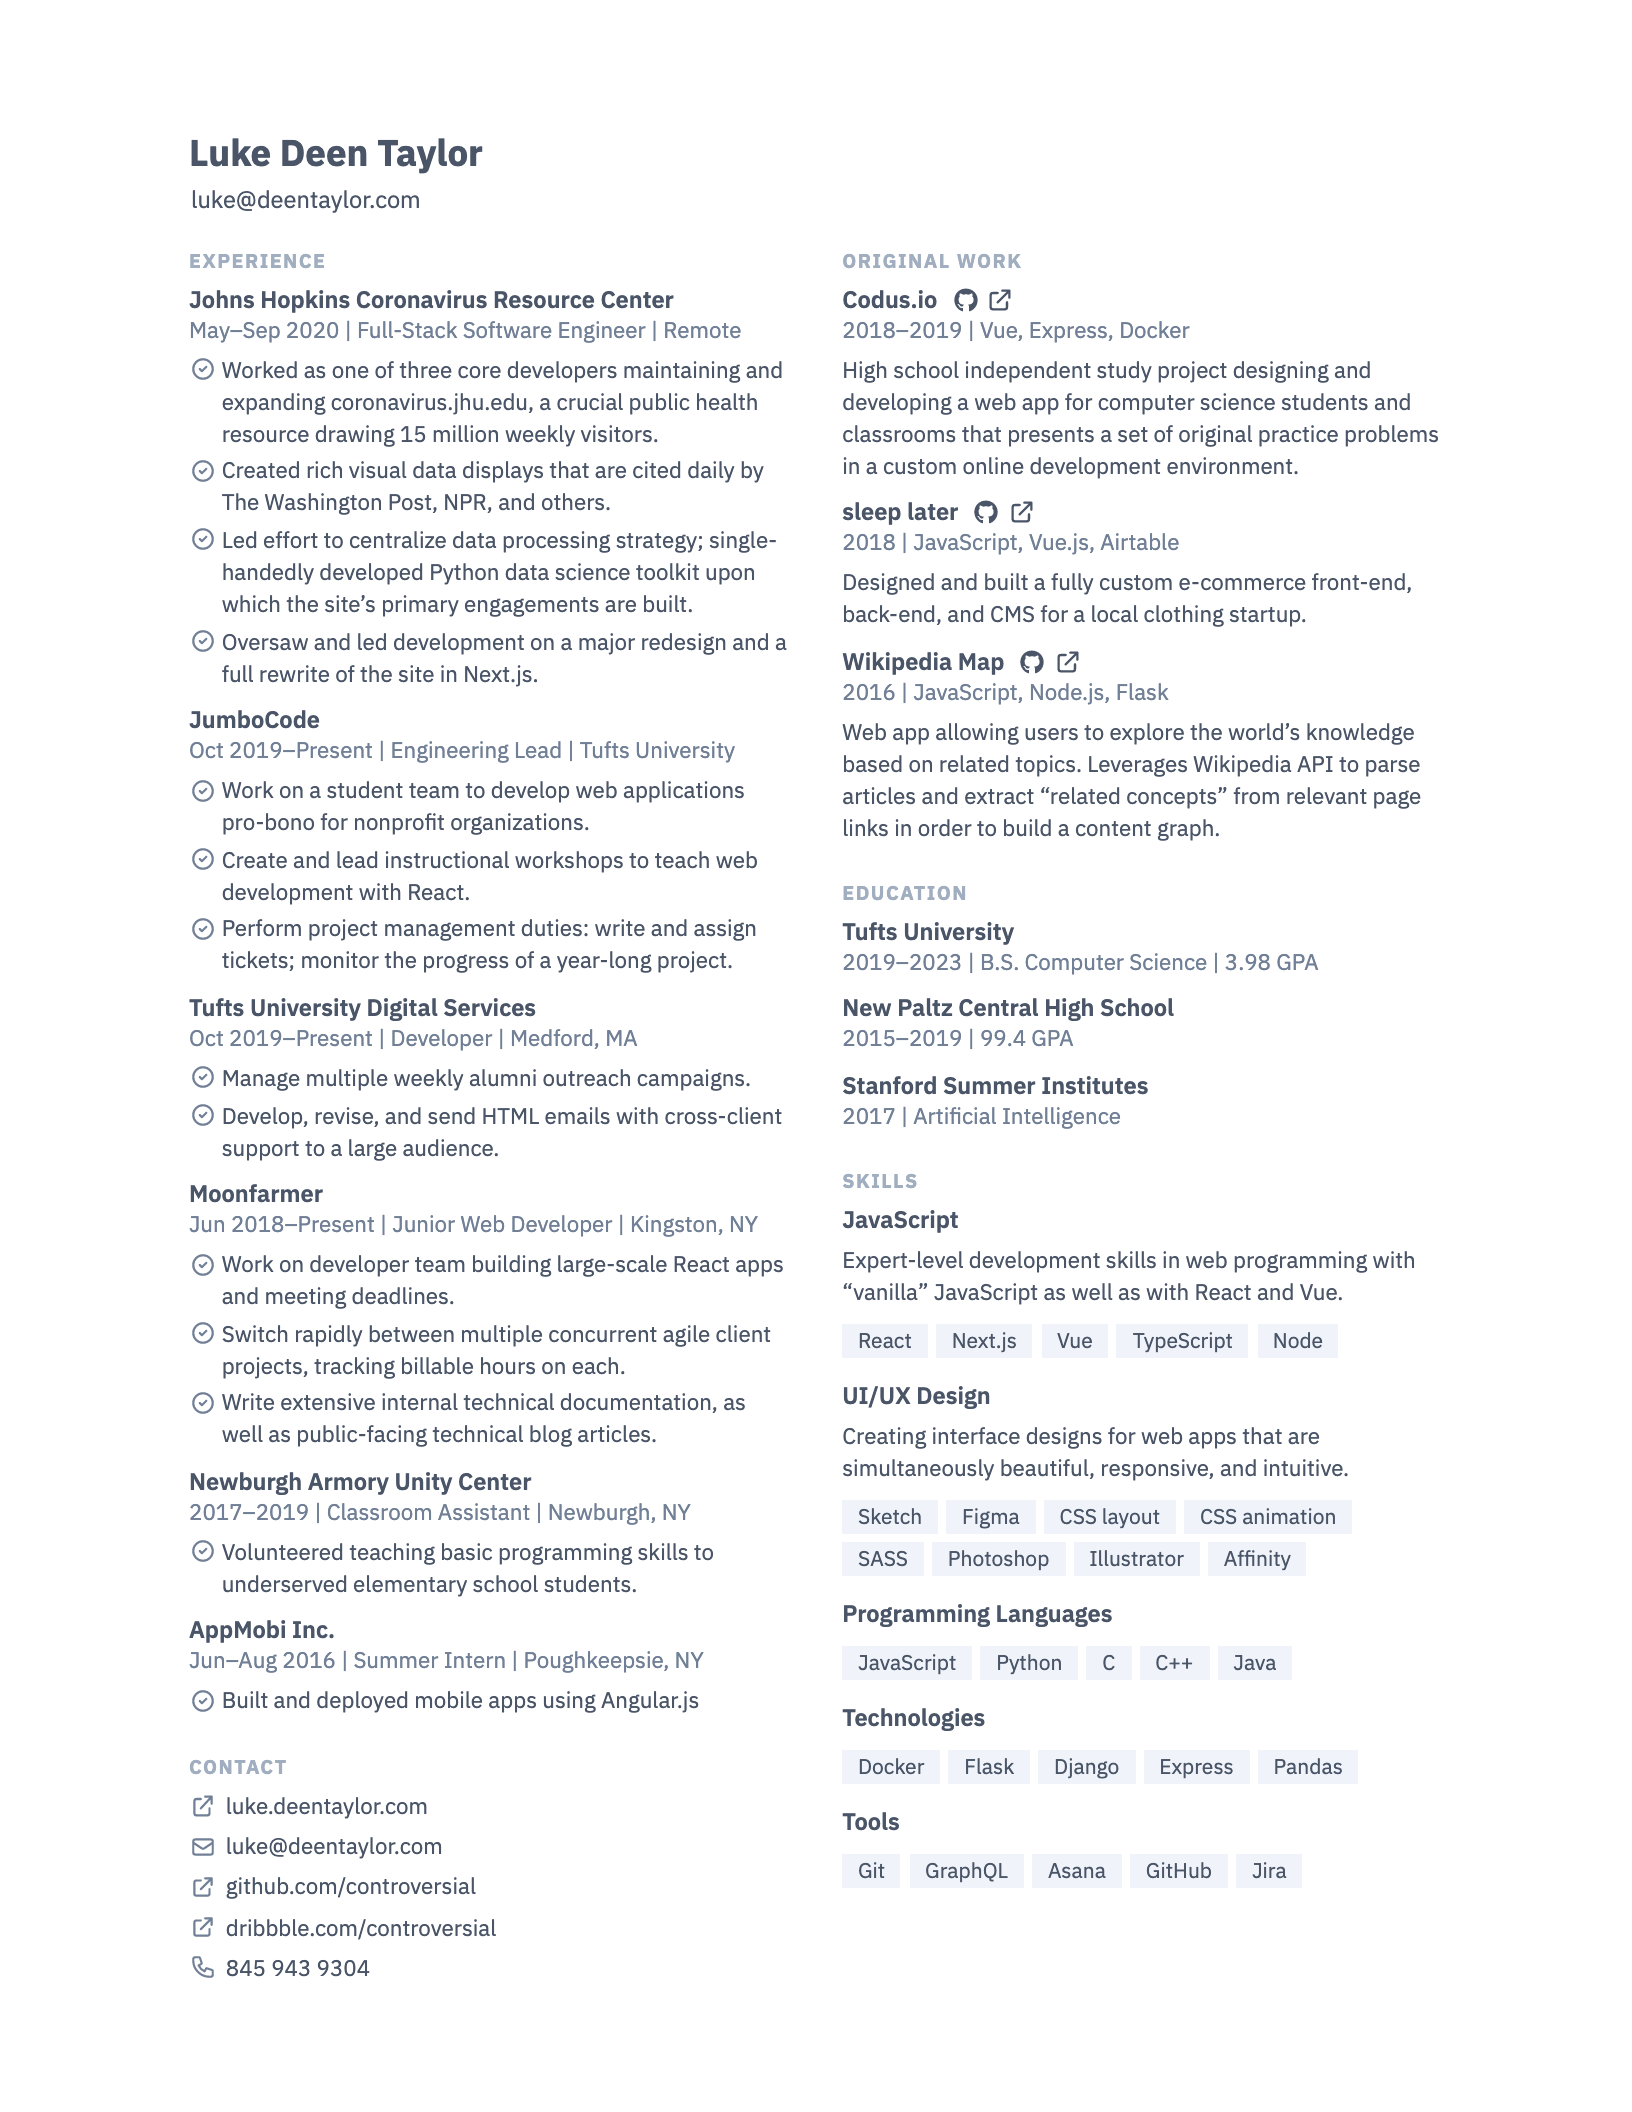
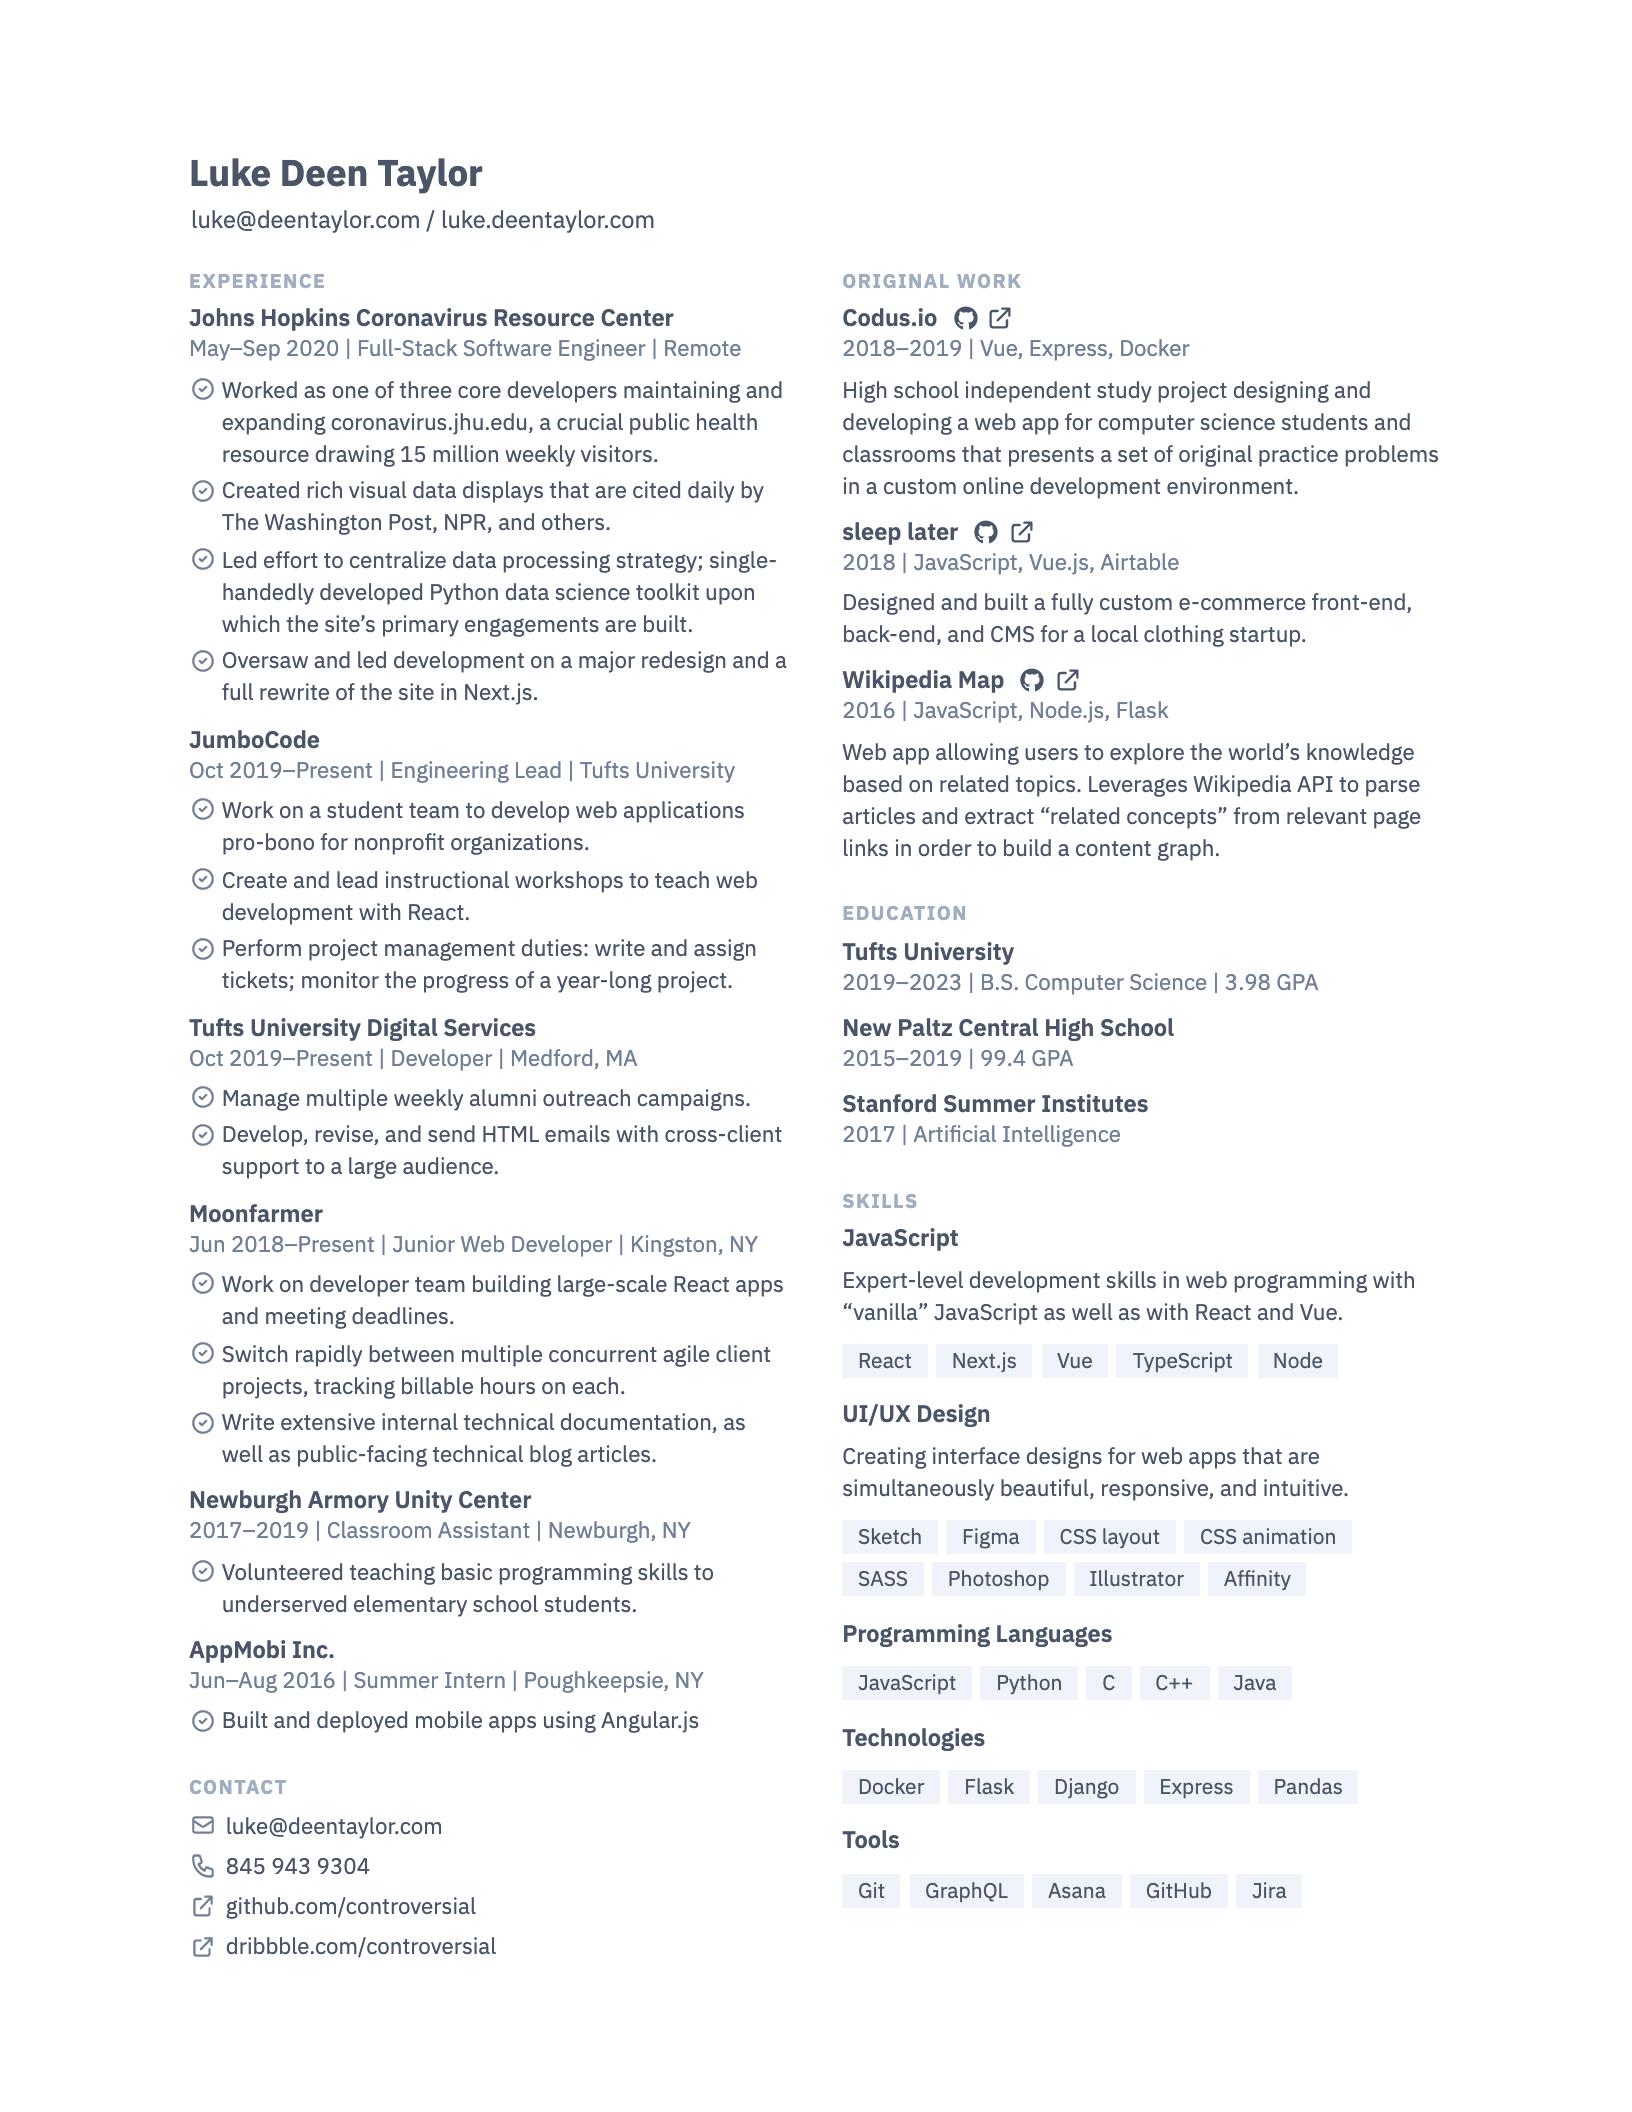
Move portfolio link to top

diff --git a/src/content.js b/src/content.js
@@ -11,6 +11,7 @@ export default {
   `,
 
   email,
+  portfolio: 'luke.deentaylor.com',
 
   experience: [
     {
@@ -187,10 +188,9 @@ export default {
   ],
 
   contact: [
-    { type: 'link', value: 'luke.deentaylor.com' },
     { type: 'email', value: email },
+    { type: 'tel', value: '845 943 9304' },
     { type: 'link', value: 'github.com/controversial' },
     { type: 'link', value: 'dribbble.com/controversial' },
-    { type: 'tel', value: '845 943 9304' },
   ],
 };

diff --git a/src/styles.scss b/src/styles.scss
@@ -31,8 +31,7 @@ main {
     margin-bottom: 1.5rem;
     align-self: flex-start;
 
-    a {
-      display: block;
+    div {
       margin-top: .25em;
       font-size: 18 / 16 * 1rem;
       padding-left: 1px;
